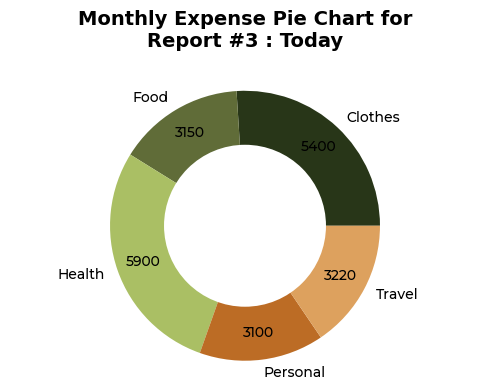
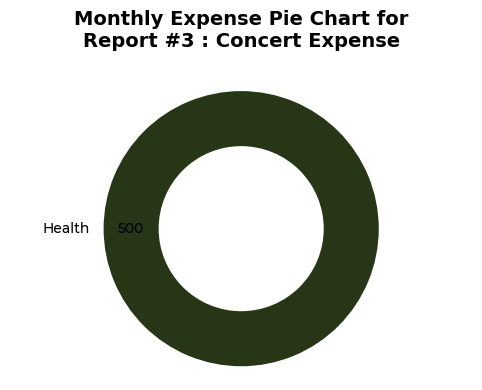
final

diff --git a/expenseTrackerApp.py b/expenseTrackerApp.py
@@ -178,7 +178,6 @@ class ExpenseTrackerApp:
         # ASSIGN SELECTED TO A VARIABLE
         selected_item = self.tree.selection()
 
-        
         if selected_item:
             # Declare initial variables
             self.report_values = self.tree.item(selected_item, "values")
@@ -205,27 +204,37 @@ class ExpenseTrackerApp:
             reportNoLabel = tk.Label(report_window, text = f"REPORT #{report_no}", font = ("Space Mono", 16, "normal"), bg = "#283618", fg = "#dda15e")
             reportNoLabel.place(relx=0.5,rely = 0.13, anchor = tk.CENTER)
 
-            reportNameLabel = tk.Label(container, text = f"{report_name.upper()}", font = ("Montserrat", 32, "bold"), bg = "#283618", fg = "#fefae0")
-            reportNameLabel.pack(pady=(0,10))
+            #TITLE FRAME
+            title_frame = tk.Frame(container, bg = "#283618")
+            title_frame.pack()
+
+            # TITLE
+            self.reportNameLabel = tk.Label(title_frame, text = f"{report_name.upper()}", font = ("Montserrat", 32, "bold"), bg = "#283618", fg = "#fefae0")
+            self.reportNameLabel.grid(row=0, column=0)
+
+            # EDIT BUTTON
+            self.editReportNameBtnImg = PhotoImage(file="./buttons/editReportBtn.png")
+            editReportNameBtnImg = tk.Button(title_frame, image = self.editReportNameBtnImg, command = lambda:self.changeReportName(self.report_values[0]), bg = "#606c38")
+            editReportNameBtnImg.grid(row = 0, column = 1, padx = 10)
 
             # TREE FRAME
             tree_frame = tk.Frame(container)
             tree_frame.pack(pady=0)
         
             # DECLARE TREEVIEW (Instead of Listbox in order to have headings and columns)
-            self.expense_tree = ttk.Treeview(tree_frame, columns=("Date", "Category", "Amount"), show="headings", height=5)
+            self.expense_tree = ttk.Treeview(tree_frame, columns=("Expense No.","Date", "Category", "Amount"), show="headings", height=5)
 
             # Define a tag with a different background color
             self.expense_tree.tag_configure("new_entry", background="#ffd6a8") # COLOR OF THE NEW INSERTED ENTRY
             
-            # self.expense_tree.heading("Expense No.", text="Expense No.")
-            self.expense_tree.heading("Date", text="Date")
-            self.expense_tree.heading("Category", text="Category")
-            self.expense_tree.heading("Amount", text="Amount")
+            self.expense_tree.heading("Expense No.", text="Expense No. ▲▼", command=lambda: self.sort_treeview("Expense No."))
+            self.expense_tree.heading("Date", text="Date ▲▼", command=lambda: self.sort_treeview("Date"))
+            self.expense_tree.heading("Category", text="Category ▲▼", command=lambda: self.sort_treeview("Category"))
+            self.expense_tree.heading("Amount", text="Amount ▲▼", command=lambda: self.sort_treeview("Amount"))
             
-            # self.expense_tree.column("Expense No.", width=140, anchor=tk.CENTER)
-            self.expense_tree.column("Date", width=150, anchor=tk.CENTER)
-            self.expense_tree.column("Category", width=150, anchor=tk.CENTER)
+            self.expense_tree.column("Expense No.", width=150, anchor=tk.CENTER)
+            self.expense_tree.column("Date", width=110, anchor=tk.CENTER)
+            self.expense_tree.column("Category", width=120, anchor=tk.CENTER)
             self.expense_tree.column("Amount", width=130, anchor=tk.CENTER)
             self.expense_tree.pack()
 
@@ -233,7 +242,7 @@ class ExpenseTrackerApp:
             expensesToDisplay = db.get_expenses_for_report(report_no)
             # print(expensesToDisplay)
             for list in expensesToDisplay:
-                self.expense_tree.insert("", tk.END, values=(list[1] ,list[2] , list[3]))
+                self.expense_tree.insert("", tk.END, values=(list[0], list[1] ,list[2] , list[3]))
 
             # BUTTONS FRAME
             button_frame = tk.Frame(container, bg = "#283618")
@@ -260,6 +269,32 @@ class ExpenseTrackerApp:
             # CALL CENTER FUNCTION
             self.center_window(report_window)
     
+
+    # FUNCTION TO SORT THE CONTENT OF EXPENSE REPORTS
+    def sort_treeview(self, col, reverse=False):
+        """Sort treeview column when clicked on the heading."""
+        data = [(self.expense_tree.set(item, col), item) for item in self.expense_tree.get_children("")]
+        
+        # Try to sort numerically, if applicable
+        try:
+            data.sort(key=lambda x: float(x[0]), reverse=reverse)
+        except ValueError:
+            data.sort(reverse=reverse)
+
+        # Rearrange items in sorted order
+        for index, (val, item) in enumerate(data):
+            self.expense_tree.move(item, '', index)
+
+        # Toggle sort order for next click
+        self.expense_tree.heading(col, command=lambda: self.sort_treeview(col, not reverse))
+
+    # FUNCTION TO CHANGE REPORT NAME
+    def changeReportName(self, report_id):
+        changed_name = simpledialog.askstring("Change Report Name", "Change Report Name to:")
+        if changed_name:  # Ensure it's not None (user didn't cancel)
+            db.changeReportName(report_id, changed_name)
+            self.reportNameLabel.config(text=changed_name.upper())
+
     # SHOW GRAPH FUNCTION
     def show_graph(self):
         # SHOW GRAPH WINDOW
@@ -295,24 +330,25 @@ class ExpenseTrackerApp:
         button_frame = tk.Frame(container, bg="#283618")
         button_frame.pack(pady=5)
 
-        # FUNCTION FOR UPDATING GRAPH
         def update_graph(timeframe):
-            # """Fetch data, regenerate the pie chart, and update the displayed image."""
-            # CALL A USER-DEFINED FUNCTION THAT FETCHES_DATA FROM DATABASE THEN RECORD AS A COMMA-SEPARATED-VALUES (.csv) FILE
-            # TO USE IT ON PANDAS AND MATPLOTLIB
-            plotter.fetch_data(timeframe, self.report_values[0], self.report_values[1])  # Generates a new 'figure.png'
+            # Fetch data first
+            data = plotter.fetch_data(timeframe, self.report_values[0], self.report_values[1])  
             
+            # If no data is found, show alert and stop execution
+            if not data:
+                return  # Exit the function early
+
             # UPDATE THE IMAGE ON THE OPENED GRAPH WINDOW
             try:
                 img = Image.open('figure.png')
                 img = img.resize((400, 300), Image.LANCZOS)
                 self.img = ImageTk.PhotoImage(img)  # Keep a reference to prevent garbage collection
-                
+
                 self.figure_label.configure(image=self.img)  # Update the displayed image
                 self.figure_label.image = self.img  # Keep reference
-                
+
             except Exception as e:
-                self.figure_label.configure(text="Error loading image", image=None)       
+                self.figure_label.configure(text="Error loading image", image=None)
 
 
         # TIMELINE BUTTONS
@@ -410,7 +446,7 @@ class ExpenseTrackerApp:
                 expense_no = latest_expense_no + 1  # Always starts at 1 if no expenses exist
                 
                 db.add_expense_to_db(expense_no, self.report_values[0], date, category, amount)
-                self.expense_tree.insert("", 0, values=(date, category, amount), tags=("new_entry",))
+                self.expense_tree.insert("", 0, values=(expense_no, date, category, amount), tags=("new_entry",))
                 add_expense_window.destroy()
             else:
                 messagebox.showwarning("Input Error", "All fields must be filled!")
@@ -450,12 +486,16 @@ class ExpenseTrackerApp:
 
             self.expense_tree.delete(item)
 
-        # UPDATE THE TOTAL EXPENSE ON THE REPORT FROM THE DATABASE
-        db.update_total_expense(self.report_values[0])
+
+        print(removed_expense_nos)
 
         # Remove each expense from the database
         for expense_no in removed_expense_nos:
             db.delete_expense(self.report_values[0], expense_no)
+        
+        # UPDATE THE TOTAL EXPENSE ON THE REPORT FROM THE DATABASE
+        db.update_total_expense(self.report_values[0])
+
     
     # BACK TO DASHBOARD FUNCTION
     def back_to_dashboard(self, report_window):
@@ -515,20 +555,20 @@ class ExpenseTrackerApp:
         # DATE ENTRY
         tk.Label(frame, text="Date (YYYY-MM-DD):", bg = "#283618", font = ("Montserrat", 10), fg = "#fefae0").grid(row=0, column=0, sticky="e", padx=5, pady=5)
         date_entry = tk.Entry(frame, width=entry_width, justify="center")
-        date_entry.insert(0, values[0])
+        date_entry.insert(0, values[1])
         date_entry.grid(row=0, column=1, padx=5, pady=5)
         
         # CATEGORY ENTRY
         tk.Label(frame, text="Category:", bg = "#283618", font = ("Montserrat", 10), fg = "#fefae0").grid(row=1, column=0, sticky="e", padx=5, pady=5)
         category_var = tk.StringVar()
         category_dropdown = ttk.Combobox(frame, textvariable=category_var, values=["Travel", "Food", "Clothes", "Bills", "Health", "Personal"], width=entry_width - 2, state="readonly")
-        category_dropdown.set(values[1])
+        category_dropdown.set(values[2])
         category_dropdown.grid(row=1, column=1, padx=5, pady=5)
         
         # AMOUNT ENTRY
         tk.Label(frame, text="Amount:", bg = "#283618", font = ("Montserrat", 10), fg = "#fefae0").grid(row=2, column=0, sticky="e", padx=5, pady=5)
         amount_entry = tk.Entry(frame, width=entry_width, justify="center")
-        amount_entry.insert(0, values[2])
+        amount_entry.insert(0, values[3])
         amount_entry.grid(row=2, column=1, padx=5, pady=5)
                 
         # SAVE UPDATE FUNCTION
@@ -563,31 +603,34 @@ class ExpenseTrackerApp:
                 return
 
             # GET THE CURRENT SELECTION
-            if new_date and new_category and new_amount:
-                selected_item = self.expense_tree.selection()
+            selected_items = self.expense_tree.selection()  # Returns a tuple of selected item IDs
 
-                # IF THERE IS A VALUE PROCEED TO THE CONTROL
-                if selected_item:
-                    values = self.expense_tree.item(selected_item, "values")
-                    expense_no = values[0]  # Extract the expense_no from the selected row
+            # Ensure something is selected
+            if not selected_items:
+                messagebox.showwarning("Selection Error", "No expense selected for updating.")
+                return
 
-                    # Update the treeview with the new values
-                    self.expense_tree.item(selected_item, values=(new_date, new_category, new_amount))
+            selected_item = selected_items[0]  # Get first selected item
 
-                    # Update the database
-                    db.update_expense_to_db(expense_no, self.report_values[0], new_date, new_category, new_amount)
+            # Extract values from the selected row
+            values = self.expense_tree.item(selected_item, "values")
 
-                    # Close the update expense window
-                    update_expense_window.destroy()
-                else:
-                    # Error for no selected entry to update
-                    messagebox.showwarning("Selection Error", "No expense selected for updating.")
+            if values:
+                expense_no = values[0]  # Extract expense_no from the selected row
+
+                # Update the Treeview with new values
+                self.expense_tree.item(selected_item, values=(expense_no, new_date, new_category, new_amount))
+
+                # Update the database
+                db.update_expense_to_db(expense_no, self.report_values[0], new_date, new_category, new_amount)
+
+                # Close the update expense window
+                update_expense_window.destroy()
+
+                # Update total expense in the database
+                db.update_total_expense(self.report_values[0])
             else:
-                # Error for incomplete entries
-                messagebox.showwarning("Input Error", "All fields must be filled!")
-
-        # UPDATE THE TOTAL EXPENSE OF THE REPORT_ID IN THE DATABASE
-        db.update_total_expense(self.report_values[0])
+                messagebox.showwarning("Selection Error", "Selected item does not exist.")
 
         # SAVE BUTTON
         self.saveBtnImg = tk.PhotoImage(file="./buttons/saveExpenseBtn.png")

diff --git a/plotter.py b/plotter.py
@@ -1,33 +1,71 @@
 import sqlite3
 import pandas as pd
 import matplotlib.pyplot as plt
+import tkinter as tk
+from tkinter import simpledialog, messagebox
+import sqlite3
+import re
 
 # Function for getting data from Database
 def fetch_data(timeframe, report_id, report_name):
-
     # Declaring target table
     targetTable = f"Expenses_Report_{report_id}"
 
-    # """Fetch expense data based on the selected timeframe."""
+    # Connect to the database
     conn = sqlite3.connect("expense_tracker.db")  # Adjust to your DB file
     cursor = conn.cursor()
 
     # SQL query based on timeframe
+    data = []
+    
     if timeframe == "Daily":
-        cursor.execute(f"SELECT category, SUM(amount) FROM {targetTable} WHERE date = DATE('now') GROUP BY category")
-    elif timeframe == "Weekly":
-        cursor.execute(f"SELECT category, SUM(amount) FROM {targetTable} WHERE date BETWEEN DATE('now', '-6 days') AND DATE('now') GROUP BY category")
-    elif timeframe == "Monthly":
-        cursor.execute(f"SELECT category, SUM(amount) FROM {targetTable} WHERE date BETWEEN DATE('now', '-29 days') AND DATE('now') GROUP BY category")
+        while True:
+            selected_date = simpledialog.askstring("Select Date", "Enter date (YYYY-MM-DD):")
+            if selected_date is None:  
+                return None  # If the user cancels, exit the function
 
+            date_pattern = r"^\d{4}-\d{2}-\d{2}$"
+            if not re.match(date_pattern, selected_date):
+                messagebox.showwarning("Input Error", "Date must be in YYYY-MM-DD format.")
+                continue  # Ask again if the format is incorrect
+            else:
+                break  # Exit loop if the format is valid
+
+        cursor.execute(f"SELECT category, SUM(amount) FROM {targetTable} WHERE date = ? GROUP BY category", (selected_date,))
+    
+    elif timeframe == "Weekly":
+        cursor.execute(f"""
+            SELECT category, SUM(amount) 
+            FROM {targetTable} 
+            WHERE date BETWEEN DATE('now', '-6 days') AND DATE('now') 
+            GROUP BY category
+        """)
+    
+    elif timeframe == "Monthly":
+        cursor.execute(f"""
+            SELECT category, SUM(amount) 
+            FROM {targetTable} 
+            WHERE date BETWEEN DATE('now', '-30 days') AND DATE('now') 
+            GROUP BY category
+        """)
+
+    # Fetch data
     data = cursor.fetchall()
     conn.close()
 
-    # Call function to Write the CSV File
-    write_data(data)
+    # Debugging: Print data to check if it's fetching correctly
+    print(f"Fetched Data for {timeframe}: {data}")
 
-    # Call function to generate the pie chart
+    # Check if data is empty and stop execution
+    if not data:
+        messagebox.showinfo("No Data", f"No data available for the selected {timeframe.lower()} timeframe.")
+        return None  # Return None explicitly if no data
+
+    # Proceed only if data exists
+    write_data(data)
     create_chart(timeframe, report_id, report_name)
+
+    return data  # Return data for further validation
     
 # Function for CSV file creation
 def write_data(data):

diff --git a/expenseTrackerAppdb.py b/expenseTrackerAppdb.py
@@ -195,3 +195,17 @@ def update_total_expense(report_id):
     conn.close()
 
     print(f"Updated total expense for Report ID {report_id}: {total}")
+
+def changeReportName(report_id, changed_name):
+    conn = sqlite3.connect('expense_tracker.db')
+    cursor = conn.cursor()
+
+    # Change the Target Report Name
+    cursor.execute(f"UPDATE Reports SET report_name = ? WHERE report_id = ?", (changed_name, report_id))
+
+    conn.commit()
+    conn.close()
+
+    print(f"Report ID #{report_id} name changed to '{changed_name}'")
+
+initialize_db()
